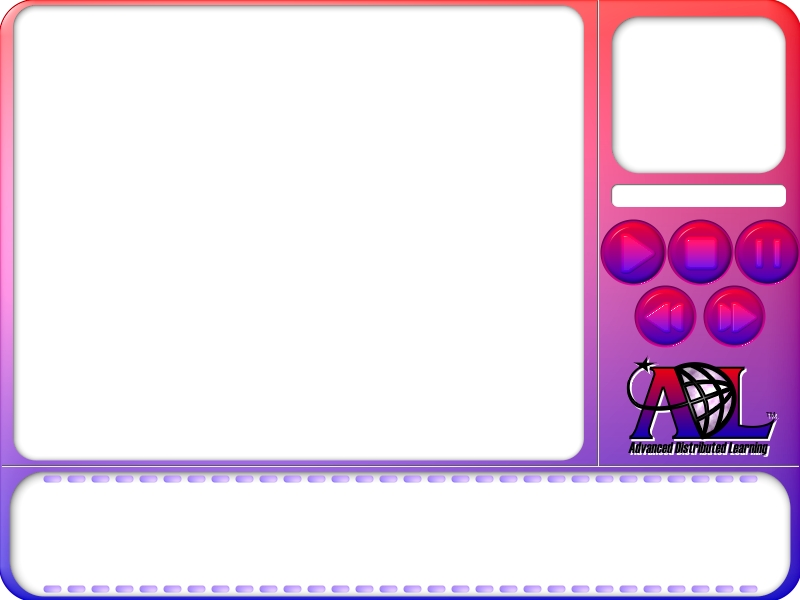
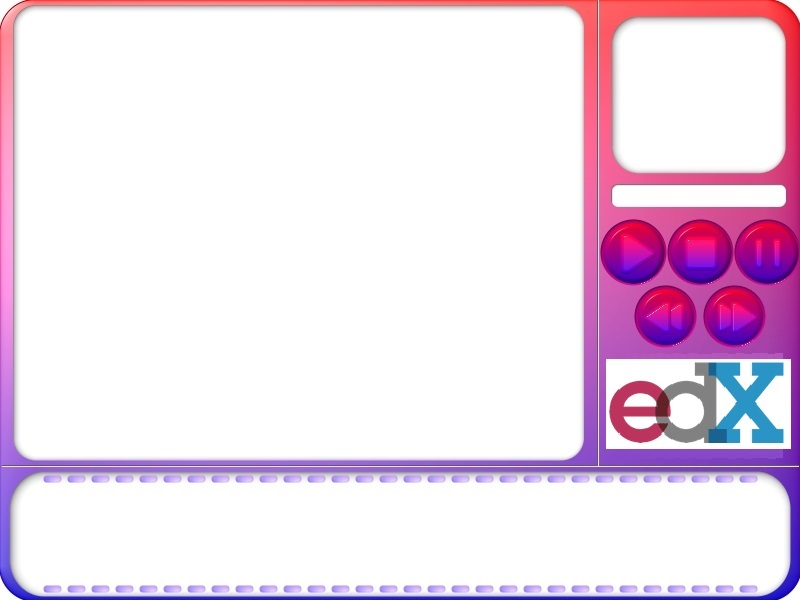
ADL_v2
Change logo
update previos & next

Changed region(s): [[0.75, 0.57, 1.0, 0.78], [0.0312, 0.99, 0.9688, 1.0]]

diff --git a/NewView/js/author.js b/NewView/js/author.js
@@ -6,15 +6,15 @@ firstScriptTag.parentNode.insertBefore(tag, firstScriptTag);
 
 var player, player2;
 function onYouTubeIframeAPIReady() {	
-	player =createPlayer('player','JCQs6JROANE');
-	player2 =createPlayer('player2','Ib7IMt0CUF4');
+	player = createPlayer('player','JCQs6JROANE');
+	player2 = createPlayer('player2','Ib7IMt0CUF4');
 }
 
 function createPlayer(divId,videoId){
 	width = $('#'+divId).parent().width()-50;
 	//height = $('#'+divId).parent().height();
 	var player = new YT.Player(divId, {
-		height : '100%',
+		height : '95%',
 		width : width,
 		videoId : videoId,
 		playerVars : {
@@ -29,8 +29,8 @@ function playVideo() {
 	player.pauseVideo();
 	player2.playVideo();
 	player2.pauseVideo();
-	setTimeout("player.playVideo()", 5000);
-	setTimeout("player2.playVideo()", 5000);
+	setTimeout("player.playVideo()", 3000);
+	setTimeout("player2.playVideo()", 3000);
 }
 
 function doNothing(){
@@ -48,15 +48,30 @@ function stopVideo() {
 }
 
 function previousVideo() {
-	alert("1:"+player.getPlayerState()+"2:"+player2.getPlayerState());
-	alert("previousVideo");
+	var ct = player.getCurrentTime();
+	var move_tag = 0;
+	
+	for(var i=0;i<mark_list.length;i++){
+		if(ct>mark_list[i]){
+			move_tag = mark_list[i];
+		}
+	}
+	goMark(move_tag);
 }
 
 function nextVideo() {
-	alert(player.getVideoLoadedFraction());
-	alert("nextVideo");
+	var ct = player.getCurrentTime();
+	var move_tag = 0;
+	
+	for(var i=(mark_list.length-1);i>=0;i--){
+		if(ct<mark_list[i]){
+			move_tag = mark_list[i];
+		}
+	}
+	goMark(move_tag);
 }
 
+var mark_list = new Array();
 function getMarks(){
 	xmlhttp = new XMLHttpRequest();
 	xmlhttp.open("GET", "mark.xml", false);
@@ -71,6 +86,7 @@ function getMarks(){
 		button.textContent = "Section" + (i+1);
 		//button.className = "ui-widget-content tag";
 		button.setAttribute("onclick","javascript:goMark("+marks[i].textContent+")");
+		mark_list[i] = marks[i].textContent;
 		var tagContainer = document.getElementById("MVA_PPT_SUBIMAGE");
 		tagContainer.appendChild(button);
 		/*$(function() {
@@ -80,11 +96,11 @@ function getMarks(){
 }
 
 function goMark(second){
-				player.seekTo(second, true);
-				player.pauseVideo();
-				player2.seekTo(second, true);
-				player2.pauseVideo();
-				playVideo();
+	player.seekTo(second, true);
+	player.pauseVideo();
+	player2.seekTo(second, true);
+	player2.pauseVideo();
+	playVideo();
 }
 
 var ctime;

diff --git a/NewView/ADL/lms.php b/NewView/ADL/lms.php
@@ -12,7 +12,7 @@
 	</head>
 
 	<body  LEFTMARGIN="0" TOPMARGIN="0" MARGINWIDTH="0" MARGINHEIGHT="0">
-		<table width="800" height="586" border="0" cellpadding="0" cellspacing="0" background="skin_img/adl.jpg">
+		<table width="800" height="600" border="0" cellpadding="0" cellspacing="0" background="skin_img/adl.jpg">
 			<tr>
 				<td width="599" height="467" rowspan="3" align="center" valign="middle">
 				<div align="center" id="player2">

diff --git a/NewView/ADL/skin.php b/NewView/ADL/skin.php
@@ -12,7 +12,7 @@
 	</head>
 
 	<body  LEFTMARGIN="0" TOPMARGIN="0" MARGINWIDTH="0" MARGINHEIGHT="0">
-		<table width="800" height="586" border="0" cellpadding="0" cellspacing="0" background="skin_img/adl.jpg">
+		<table width="800" height="600" border="0" cellpadding="0" cellspacing="0" background="skin_img/adl.jpg">
 			<tr>
 				<td width="599" height="467" rowspan="3" align="center" valign="middle">
 				<div align="center" id="player2">
